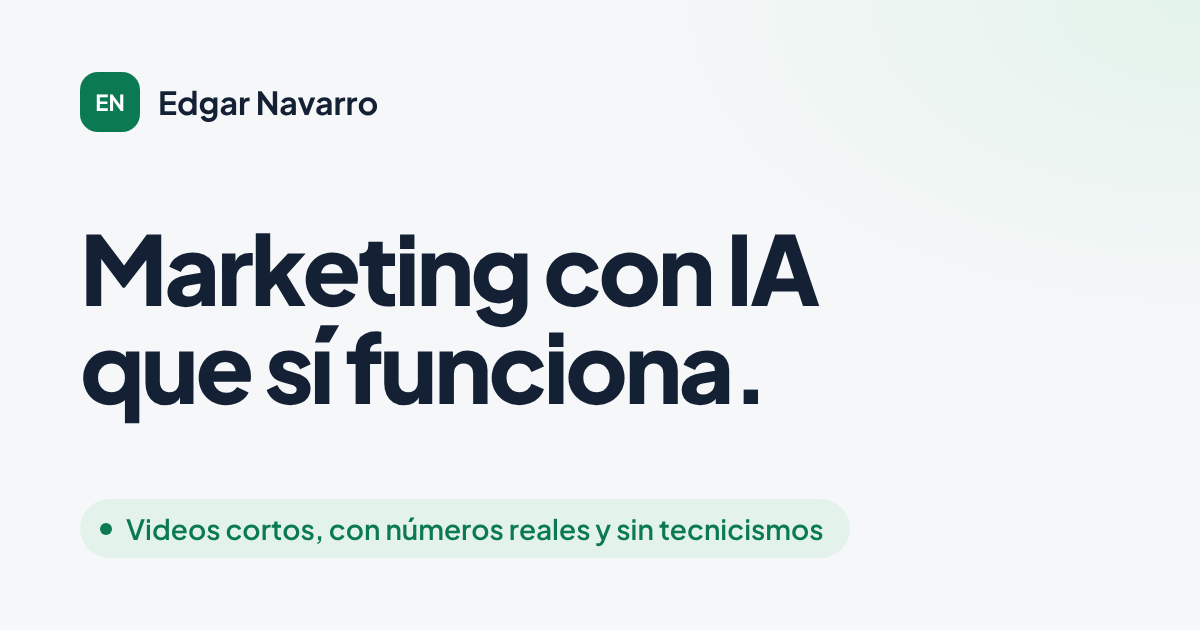
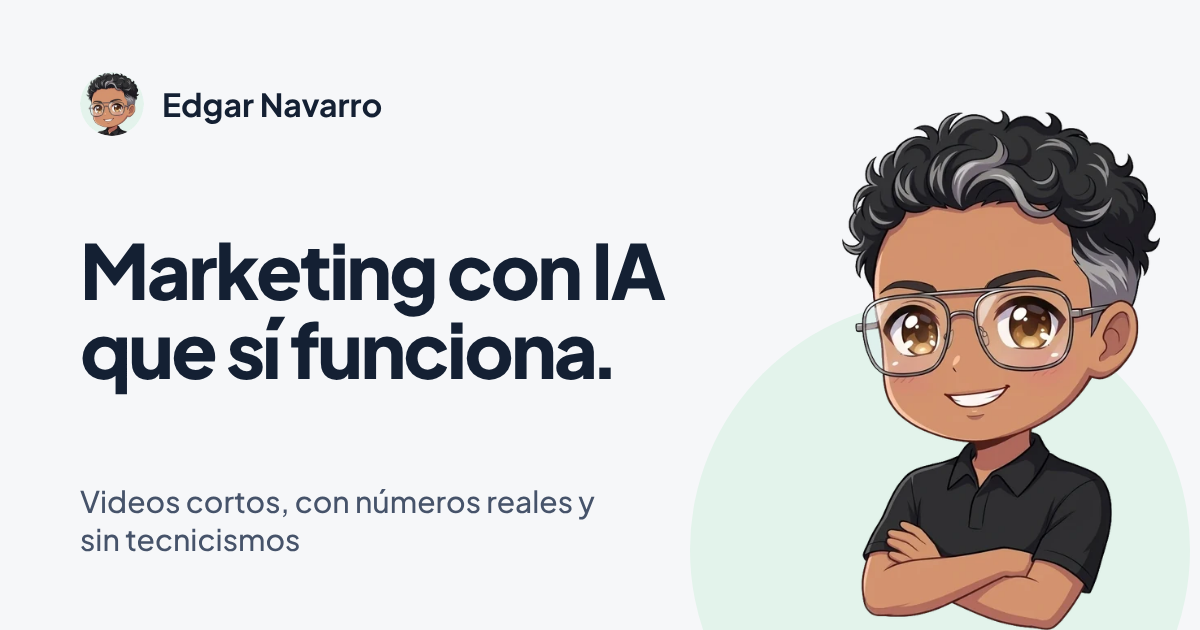
Usa las ilustraciones de Edgar en la web
- Avatar circular en el encabezado, el saludo del inicio y como icono de la pestaña.
- Ilustraciones en "Sobre mí", la newsletter, la página 404 y la tienda vacía.
- Nueva imagen para redes con la ilustración.
- En modo oscuro llevan un contorno claro sutil para que no se pierdan.
- Se dejan fuera las versiones con Bulbasaur (personaje de Pokémon).

Claude-Session: https://claude.ai/code/session_01KaRXv1b2gyaM7JHWDzqRp2

diff --git a/scripts/og.html b/scripts/og.html
@@ -1,8 +1,9 @@
 <!doctype html>
 <!--
   Plantilla de la imagen para redes (public/og.png, 1200x630).
-  Para regenerarla: abre este archivo en Chrome con una ventana de 1200x630
-  y haz una captura (DevTools → "Capture screenshot"). O pídeselo a Claude.
+  Usa las ilustraciones de public/edgar/. Para regenerarla: abre este archivo en Chrome
+  con una ventana de 1200x630 y haz una captura (DevTools → "Capture screenshot").
+  O pídeselo a Claude.
 -->
 <html lang="es">
 <head>
@@ -10,23 +11,27 @@
 <link href="https://fonts.googleapis.com/css2?family=Plus+Jakarta+Sans:wght@500;600;700;800&display=swap" rel="stylesheet" />
 <style>
   * { box-sizing: border-box; margin: 0; }
-  html, body { width: 1200px; height: 630px; }
+  html, body { width: 1200px; height: 630px; overflow: hidden; }
   body {
+    position: relative;
     background: #f6f7f9; color: #142033;
     font-family: 'Plus Jakarta Sans', sans-serif;
     padding: 72px 80px; display: flex; flex-direction: column; justify-content: space-between;
-    background-image: radial-gradient(80% 90% at 100% 0%, #e3f3eb 0%, transparent 60%);
   }
   .brand { display: flex; align-items: center; gap: 18px; font-size: 32px; font-weight: 700; }
-  .mark { width: 60px; height: 60px; border-radius: 18px; background: #0b7a52; color: #fff; display: grid; place-items: center; font-size: 22px; font-weight: 700; }
-  h1 { font-size: 96px; line-height: 1.02; letter-spacing: -0.035em; font-weight: 800; }
-  .pill { align-self: flex-start; display: inline-flex; align-items: center; gap: 14px; background: #e3f3eb; color: #0b7a52; font-size: 28px; font-weight: 600; padding: 12px 26px 12px 20px; border-radius: 999px; }
-  .pill i { width: 12px; height: 12px; border-radius: 50%; background: #0b7a52; display: inline-block; }
+  .brand img { width: 64px; height: 64px; border-radius: 50%; }
+  h1 { font-size: 76px; line-height: 1.04; letter-spacing: -0.035em; font-weight: 800; max-width: 680px; }
+  h1 .dot { margin-left: -0.08em; }
+  .sub { font-size: 30px; font-weight: 500; color: #46536a; max-width: 540px; }
+  .circle { position: absolute; right: 10px; bottom: -170px; width: 500px; height: 500px; border-radius: 50%; background: #e3f3eb; }
+  .figure { position: absolute; right: 40px; bottom: 0; height: 520px; }
 </style>
 </head>
 <body>
-  <div class="brand"><span class="mark">EN</span>Edgar Navarro</div>
-  <h1>Marketing con IA<br />que sí funciona.</h1>
-  <p class="pill"><i></i>Videos cortos, con números reales y sin tecnicismos</p>
+  <div class="circle"></div>
+  <img class="figure" src="../public/edgar/brazos-cruzados.webp" alt="" />
+  <div class="brand"><img src="../public/edgar/cara.webp" alt="" />Edgar Navarro</div>
+  <h1>Marketing con IA que sí funciona<span class="dot">.</span></h1>
+  <p class="sub">Videos cortos, con números reales y sin tecnicismos</p>
 </body>
 </html>

diff --git a/src/styles/global.css b/src/styles/global.css
@@ -155,6 +155,12 @@ p {
   box-shadow: var(--shadow);
 }
 
+/* Ilustraciones de Edgar: en modo oscuro, un contorno claro sutil para que el pelo y la
+   camisa negros no se pierdan sobre el fondo */
+:root[data-theme='dark'] .illus {
+  filter: drop-shadow(0 0 1px rgba(255, 255, 255, 0.55)) drop-shadow(0 0 10px rgba(255, 255, 255, 0.08));
+}
+
 .sr-only {
   position: absolute;
   width: 1px;

diff --git a/CLAUDE.md b/CLAUDE.md
@@ -46,7 +46,7 @@ sin `nombres_con_guiones`, sin nombres de archivo, sin jerga como CPA, LLM o "pa
   cadencias típicas: grupos de tres por costumbre, "no solo X, también Y", titulares con dos puntos
   que "revelan", eslóganes vacíos ("Sin humo", "A tu ritmo"). Los títulos de sección van sin punto.
   **Nunca prometer en presente lo que aún no existe** (videos, plantillas, newsletter): en futuro.
-  Lo que más humaniza la web y falta: una foto real de Edgar y un caso real con sus números.
+  Lo que más humaniza la web y aún falta: un caso real con sus números.
 - Mientras `site.substack` esté vacío, los botones principales llevan a LinkedIn (`primaryCta`
   en `site.ts`) y la sección de newsletter dice que arranca pronto; al pegar la dirección cambia sola.
 - **Modo claro por defecto.** El oscuro (fondo `#0b111c`) se activa con el botón de luna/sol del
@@ -61,7 +61,13 @@ sin `nombres_con_guiones`, sin nombres de archivo, sin jerga como CPA, LLM o "pa
 - Movimiento sutil: aparición de esos pasos y botones que reaccionan al pulsar.
   Con `prefers-reduced-motion` todo aparece sin animación.
 - Barra superior translúcida (desenfoque), sólida con `prefers-reduced-transparency`.
-- Monograma "EN" como logo y como avatar hasta que haya foto.
+- **Ilustraciones de Edgar** (estilo chibi, fondo transparente) en `public/edgar/`:
+  `cara.webp` (avatar circular: encabezado, saludo del inicio, favicon `favicon.png` y
+  `apple-touch-icon.png`), `saludo-tablet.webp` ("Sobre mí" y tienda vacía), `saludo.webp`
+  (newsletter) y `brazos-cruzados.webp` (404 e imagen para redes). Van sobre un círculo verde
+  suave o, en modo oscuro, con la clase `.illus` (contorno claro sutil) para que el pelo y la
+  camisa negros no se pierdan. **No usar las versiones con Bulbasaur**: es un personaje de
+  Pokémon (Nintendo / The Pokémon Company) y la web vende recursos; riesgo de reclamo.
 - Logos de marcas en "Sobre mí", con sus colores originales sobre tarjetas blancas (en ambos modos).
   Sacados de la web oficial de cada marca; Edgar confirmó que puede mostrarlos. Avior solo publica su
   logo en blanco, por eso va sobre su rojo de marca (`#c81414`). **Cruz Roja no aparece**: su emblema
@@ -103,6 +109,7 @@ sin `nombres_con_guiones`, sin nombres de archivo, sin jerga como CPA, LLM o "pa
 | Lo que traerá cada video                         | `src/data/site.ts` → `extras` |
 | Página de error                                  | `src/pages/404.astro`           |
 | Productos de la tienda y número de WhatsApp      | `src/data/shop.ts`              |
+| Ilustraciones de Edgar y favicon                 | `public/edgar/`, `public/favicon.png` |
 | Logos de marcas (archivos en `public/logos/`)    | `src/data/site.ts` → `brands` |
 | Textos de la newsletter                          | `src/data/site.ts` → `newsletter` |
 | Iconos                                           | `src/components/Icon.astro`     |
